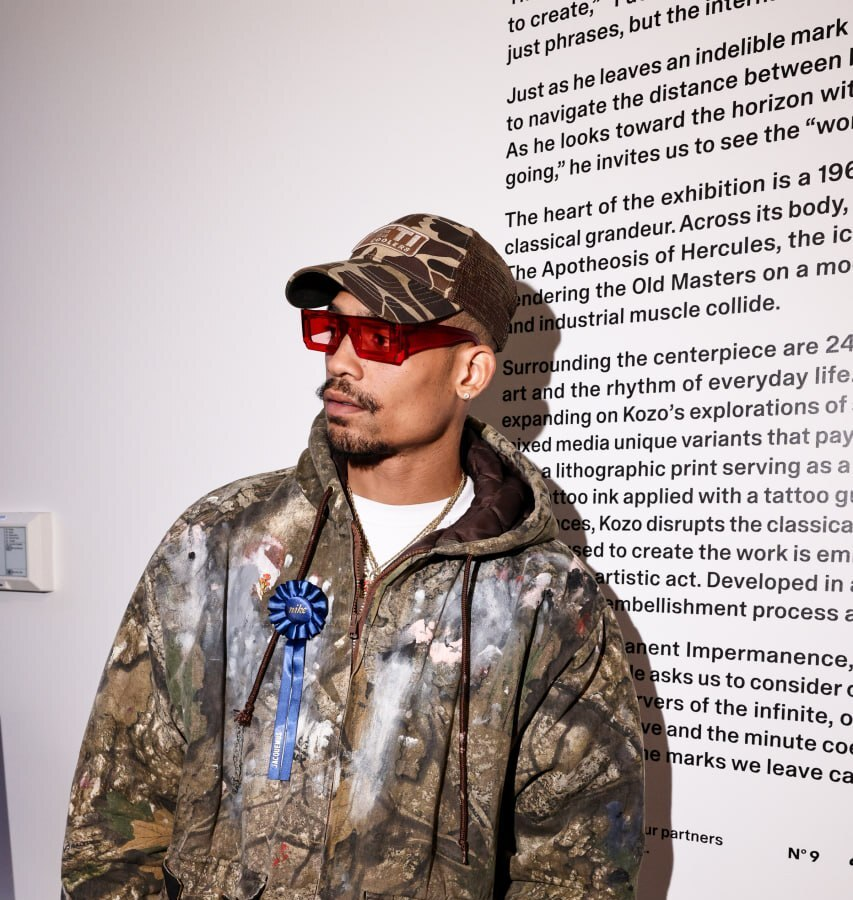
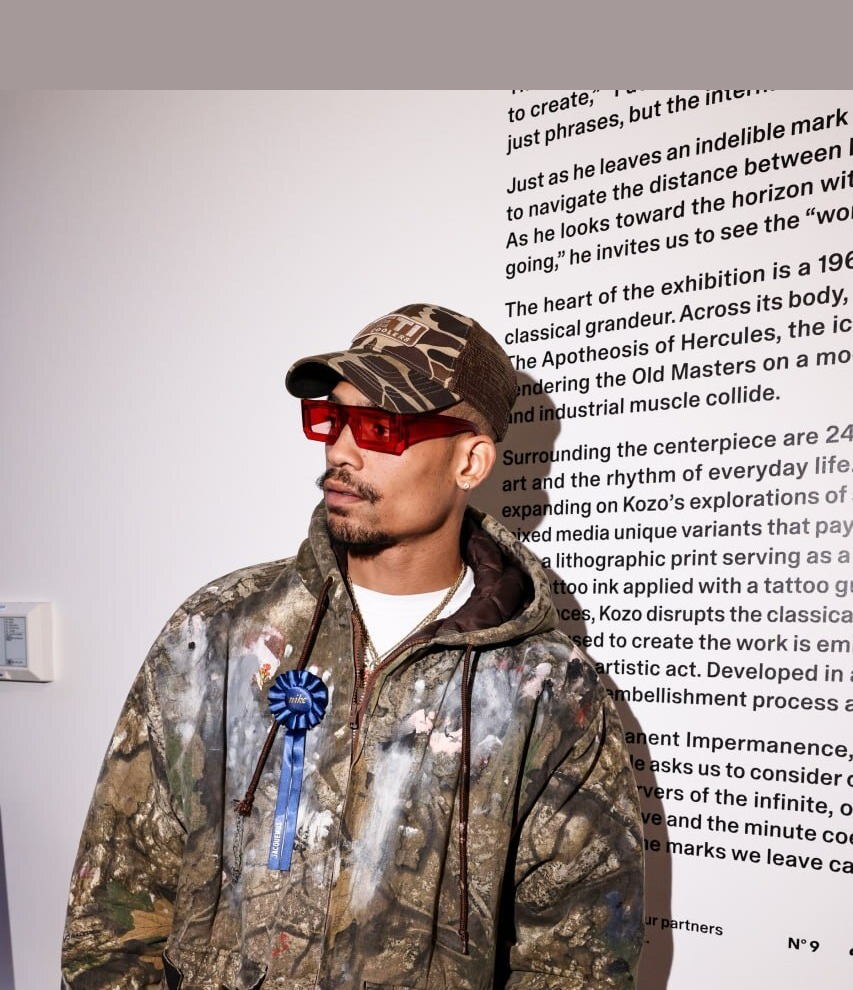
Fix guest photo crops: top-left head room, guest-3 recropped to 850px, Julian canvas extended 90px

diff --git a/index.html b/index.html
@@ -1137,10 +1137,10 @@ footer span{font-size:9px;font-weight:700;letter-spacing:.2em;text-transform:upp
     </div>
 
     <div class="photo-row cols-2" style="margin-top:48px">
-      <div class="photo-cell"><img src="guest-1.jpg" alt="" onerror="this.style.display='none'"></div>
+      <div class="photo-cell"><img src="guest-1.jpg" alt="" style="object-position:top" onerror="this.style.display='none'"></div>
       <div class="photo-cell"><img src="guest-2.jpg" alt="" style="object-position:top" onerror="this.style.display='none'"></div>
-      <div class="photo-cell"><img src="guest-3.jpg" alt="" style="object-position:center" onerror="this.style.display='none'"></div>
-      <div class="photo-cell"><img src="guest-4.jpg" alt="Julian Gaines" style="object-position:top" onerror="this.style.display='none'"></div>
+      <div class="photo-cell"><img src="guest-3.jpg" alt="" style="object-position:top" onerror="this.style.display='none'"></div>
+      <div class="photo-cell"><img src="guest-4.jpg" alt="Julian Gaines" style="object-position:top center" onerror="this.style.display='none'"></div>
     </div>
   </div>
 